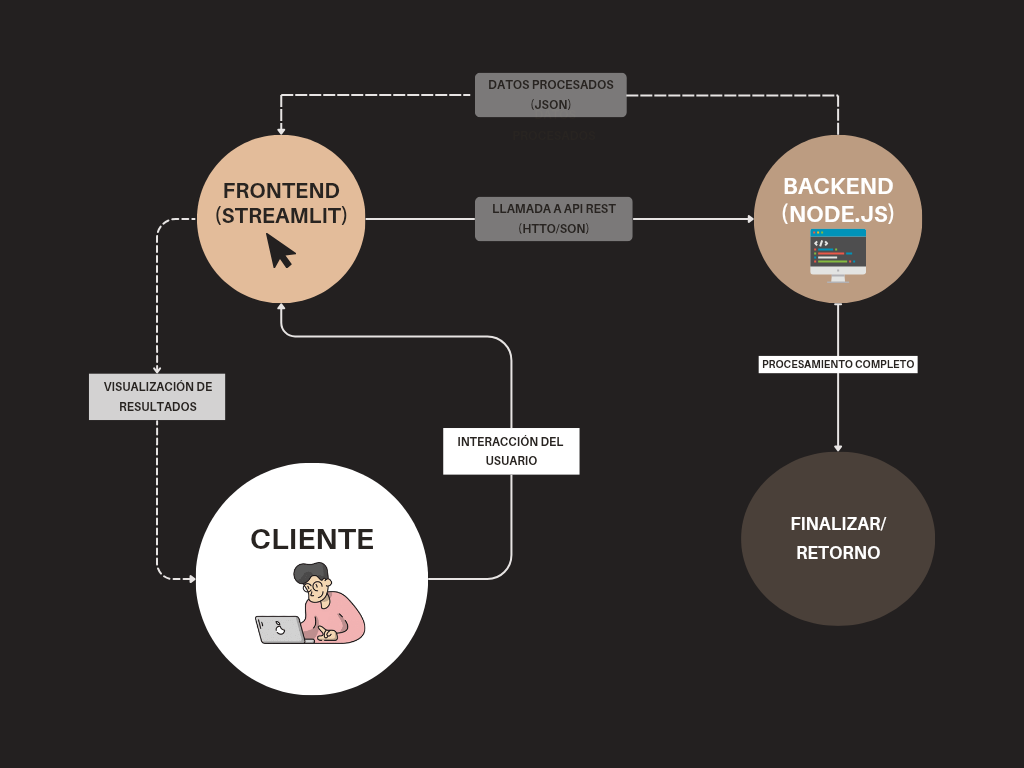
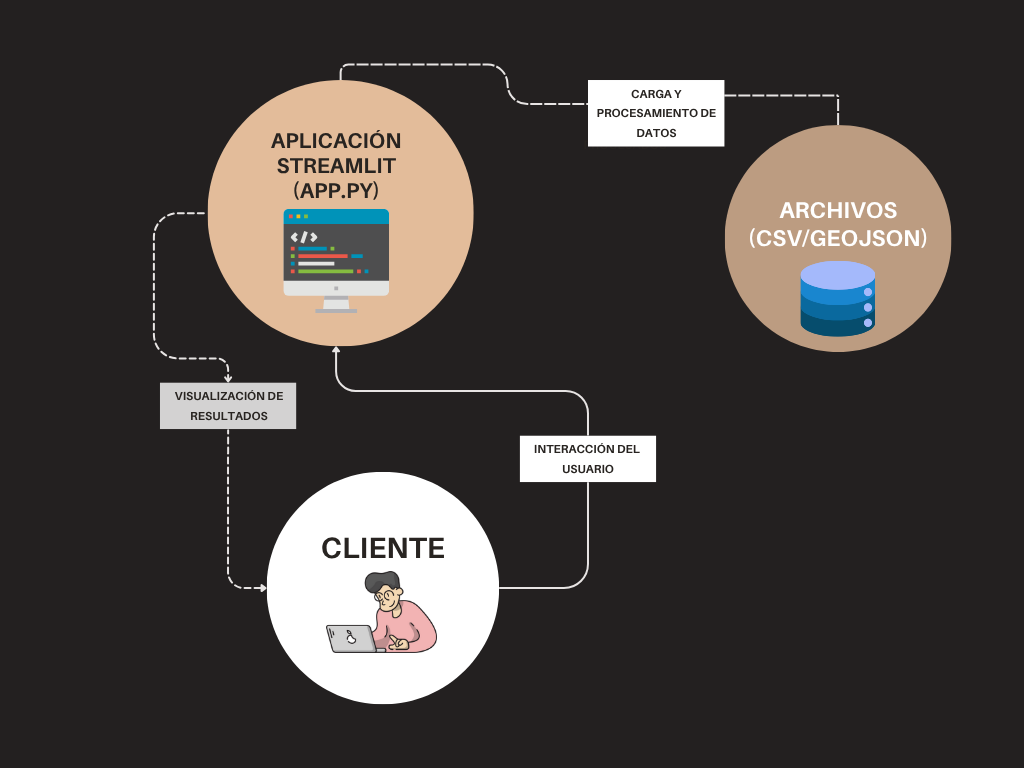
Actualizo app.py, requisitos y el diagrama de arquitectura

diff --git a/app.py b/app.py
@@ -29,18 +29,17 @@ def strip_accents(s: str) -> str:
     return ''.join([c for c in nfkd if not unicodedata.combining(c)])
 
 def normalize_name_for_match(s: str) -> str:
-    """Normaliza un nombre quitando acentos, paréntesis, artículos comunes, puntuación y lowercasing."""
     if not isinstance(s, str):
         return ""
     s = s.strip()
-    s = re.sub(r'\(.*?\)', '', s)                
-    s = strip_accents(s)                        
+    s = re.sub(r'\(.*?\)', '', s)
+    s = strip_accents(s)
     s = s.replace('&', 'and')
     s = s.replace('-', ' ')
     s = s.replace('/', ' ')
-    s = re.sub(r'[^0-9A-Za-z\s]', '', s)         
+    s = re.sub(r'[^0-9A-Za-z\s]', '', s)
     s = re.sub(r'\b(the|of|and|de|del|la|el|plurinational|state)\b', '', s, flags=re.I)
-    s = re.sub(r'\s+', ' ', s)                  
+    s = re.sub(r'\s+', ' ', s)
     return s.strip().lower()
 
 def detect_country_column(df: pd.DataFrame) -> str:
@@ -59,24 +58,16 @@ def detect_country_column(df: pd.DataFrame) -> str:
     return None
 
 def detect_year_columns(columns) -> list:
-    """Detecta columnas que parezcan años (1990, 1990/91, 1990-91, etc.)"""
     year_regex = re.compile(r'^\s*\d{4}(\s*[-/]\s*\d{2,4})?\s*$')
     return [c for c in columns if isinstance(c, str) and year_regex.match(c.strip())]
 
 def year_label_to_int(label: str) -> int:
-    """Extrae el año inicial como entero para ordenar: '1990/91'->1990, '1990'->1990"""
     if not isinstance(label, str):
         return 9999
     m = re.match(r'^\s*(\d{4})', label)
     return int(m.group(1)) if m else 9999
 
 def build_country_map(csv_countries, geo_countries, cutoff=0.7):
-    """
-    Crea un mapping csv_name -> geo_name intentando:
-    1) match exacto
-    2) match por normalized name exacto
-    3) fuzzy match sobre normalized names
-    """
     geo_norm = {n: normalize_name_for_match(n) for n in geo_countries}
     norm_to_geo = {}
     for geo, n in geo_norm.items():
@@ -89,9 +80,8 @@ def build_country_map(csv_countries, geo_countries, cutoff=0.7):
             mapping[c] = c
             continue
         c_norm = normalize_name_for_match(c)
-       
+        
         if c_norm in norm_to_geo:
-           
             mapping[c] = norm_to_geo[c_norm][0]
             continue
 
@@ -194,11 +184,10 @@ df_filtered = df_long[mask].copy()
 
 map_df = df_filtered.groupby("Country", as_index=False)["value"].sum()
 
-
 csv_countries = map_df["Country"].dropna().unique().tolist()
 country_map = build_country_map(csv_countries, geo_names, cutoff=0.7)
 map_df["geo_name"] = map_df["Country"].map(country_map)
-
+ 
 
 map_df["plot_location"] = map_df["geo_name"].where(map_df["geo_name"].notna(), map_df["Country"])
 
@@ -218,6 +207,152 @@ fig.update_geos(showcountries=True, showcoastlines=True, showland=True)
 fig.update_layout(margin={"r":0,"t":60,"l":0,"b":0}, coloraxis_colorbar=dict(title="Valor"))
 
 
+st.markdown("## 📈 Métricas Globales de Café")
+
+total_global = df_filtered["value"].sum() / 1_000_000
+pais_principal = map_df.nlargest(1, "value").iloc[0]
+valor_principal = pais_principal['value'] / 1_000_000
+
+col1, col2 = st.columns(2)
+
+with col1:
+    st.metric(
+        label="Total Global",
+        value=f"{total_global:.1f}M bolsas",
+        help="Total de bolsas de café a nivel mundial (en millones)"
+    )
+
+with col2:
+    st.metric(
+        label="Principal País",
+        value=f"{pais_principal['Country']}",
+        delta=f"{valor_principal:.1f}M bolsas",
+        help=f"País con mayor {metric.lower()} de café (en millones de bolsas)"
+    )
+ 
+
 st.markdown("## ☕ Coffee World Map")
 st.write(f"**Métrica:** {metric}    •    **Año:** {selected_year}" + (f"    •    **Tipo:** {selected_type}" if selected_type != "Todos" else ""))
 st.plotly_chart(fig, use_container_width=True)
+
+st.markdown("## 📊 Top 10 Países")
+
+chart_data = map_df.sort_values("value", ascending=False).head(10)
+
+chart_data = chart_data.copy()
+chart_data['value_m'] = chart_data['value'] / 1_000_000
+
+bar_fig = px.bar(
+    chart_data,
+    y="Country",
+    x="value_m",
+    orientation='h',
+    title=f"Top 10 Países - {metric} ({selected_year})" + (f" - {selected_type}" if selected_type != "Todos" else ""),
+    labels={"Country": "País", "value_m": f"Millones de bolsas"},
+    text="value_m"
+)
+
+bar_fig.update_traces(
+    texttemplate='%{text:.1f}M',
+    textposition='auto',
+    marker_color='#1f77b4'
+)
+
+bar_fig.update_layout(
+    showlegend=False,
+    margin=dict(l=200, r=20, t=50, b=20),
+    height=400
+)
+
+st.plotly_chart(bar_fig, use_container_width=True)
+
+st.markdown("---")
+
+st.markdown(f"## 📈 Tendencia Histórica de {metric} Mundial")
+
+if selected_type != "Todos" and "Coffee type" in df_long.columns:
+    title_suffix = f" ({selected_type})"
+    df_trend = df_long[df_long["Coffee type"].fillna("").str.strip().str.lower() == selected_type.strip().lower()]
+else:
+    title_suffix = ""
+    df_trend = df_long
+
+historical_data = df_trend.groupby('year_label')['value'].sum().reset_index()
+historical_data['value_m'] = historical_data['value'] / 1_000_000
+
+trend_fig = px.line(
+    historical_data,
+    x='year_label',
+    y='value_m',
+    title=f'Evolución del {metric} Mundial de Café{title_suffix}',
+    labels={'year_label': 'Año', 'value_m': 'Millones de bolsas'},
+    markers=True
+)
+
+trend_fig.update_traces(
+    line_color='#1f77b4',
+    marker=dict(size=8),
+    hovertemplate=f'Año: %{{x}}<br>{metric}: %{{y:.1f}}M bolsas<extra></extra>'
+)
+
+trend_fig.update_layout(
+    xaxis_title='Año',
+    yaxis_title='Millones de bolsas',
+    showlegend=False,
+    hovermode='x unified'
+)
+
+st.plotly_chart(trend_fig, use_container_width=True)
+
+if metric == "Exportación":
+    def compute_total_from_file(path, year_label, coffee_type=None):
+        df_local = load_csv(path)
+        country_col_local = detect_country_column(df_local)
+        if country_col_local and country_col_local != "Country":
+            df_local = df_local.rename(columns={country_col_local: "Country"})
+        if "Coffee Type" in df_local.columns and "Coffee type" not in df_local.columns:
+            df_local = df_local.rename(columns={"Coffee Type": "Coffee type"})
+        if "Coffee type" in df_local.columns:
+            df_local["Coffee type"] = df_local["Coffee type"].astype(str).apply(lambda x: x.strip() if pd.notna(x) else x)
+        year_cols_local = detect_year_columns(df_local.columns)
+        if not year_cols_local:
+            return 0.0
+        if year_label not in year_cols_local:
+            matches = [c for c in year_cols_local if c.strip().startswith(year_label.strip())]
+            if matches:
+                year_label_use = matches[0]
+            else:
+                return 0.0
+        else:
+            year_label_use = year_label
+        id_vars_local = ["Country"]
+        if "Coffee type" in df_local.columns:
+            id_vars_local.append("Coffee type")
+        df_long_local = df_local.melt(id_vars=id_vars_local, value_vars=year_cols_local, var_name="year_label", value_name="value")
+        df_long_local["value"] = pd.to_numeric(df_long_local["value"], errors="coerce")
+        mask_local = df_long_local["year_label"] == year_label_use
+        if coffee_type:
+            mask_local = mask_local & (df_long_local["Coffee type"].fillna("").str.strip().str.lower() == coffee_type.strip().lower())
+        return df_long_local.loc[mask_local, "value"].sum()
+
+    coffee_type_arg = selected_type if selected_type != "Todos" else None
+    prod_total = compute_total_from_file(DATA_DIR / "Coffee_production.csv", selected_year, coffee_type_arg)
+    export_total = compute_total_from_file(DATA_DIR / "Coffee_export.csv", selected_year, coffee_type_arg)
+    domestic_total = max(0.0, prod_total - export_total)
+
+    donut_df = pd.DataFrame({
+        "category": ["Consumo Interno", "Exportado"],
+        "value": [domestic_total, export_total]
+    })
+    donut_df["value_m"] = donut_df["value"] / 1_000_000
+
+    donut_fig = px.pie(
+        donut_df,
+        names="category",
+        values="value_m",
+        hole=0.5,
+        title=f"Proporción: Consumo Interno vs Exportaciones ({selected_year})" + (f" - {selected_type}" if selected_type != "Todos" else "")
+    )
+    donut_fig.update_traces(textinfo="label+percent", hovertemplate='%{label}: %{value:.1f}M bolsas (%{percent})')
+    donut_fig.update_layout(margin=dict(t=50, b=20), showlegend=True)
+    st.plotly_chart(donut_fig, use_container_width=True)
